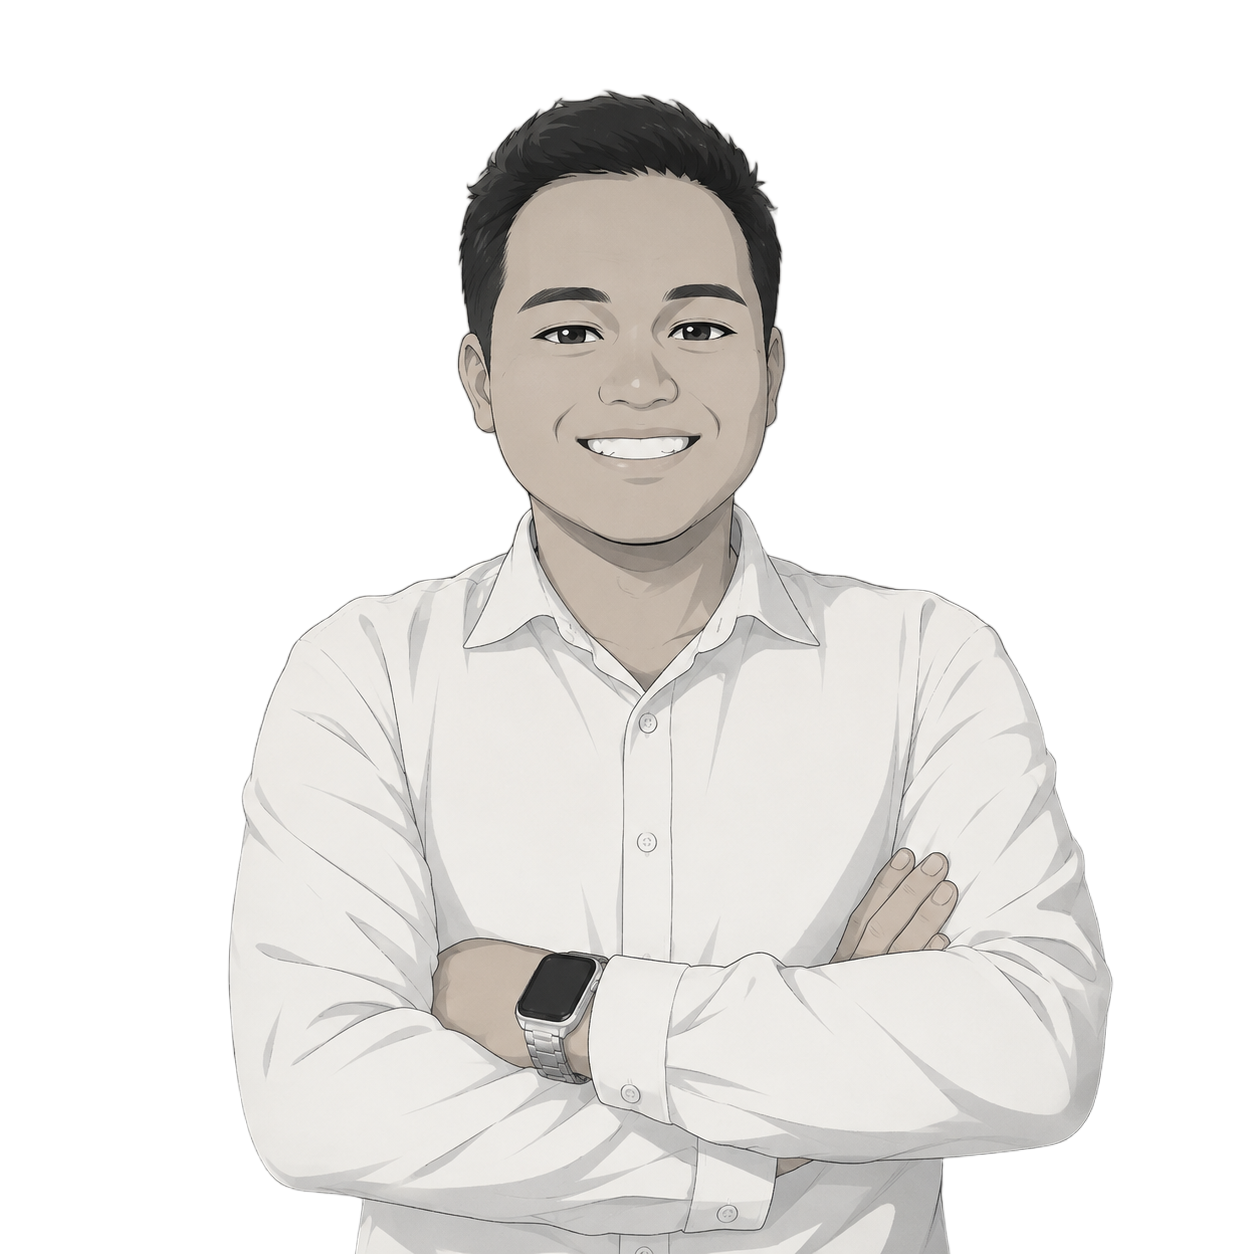
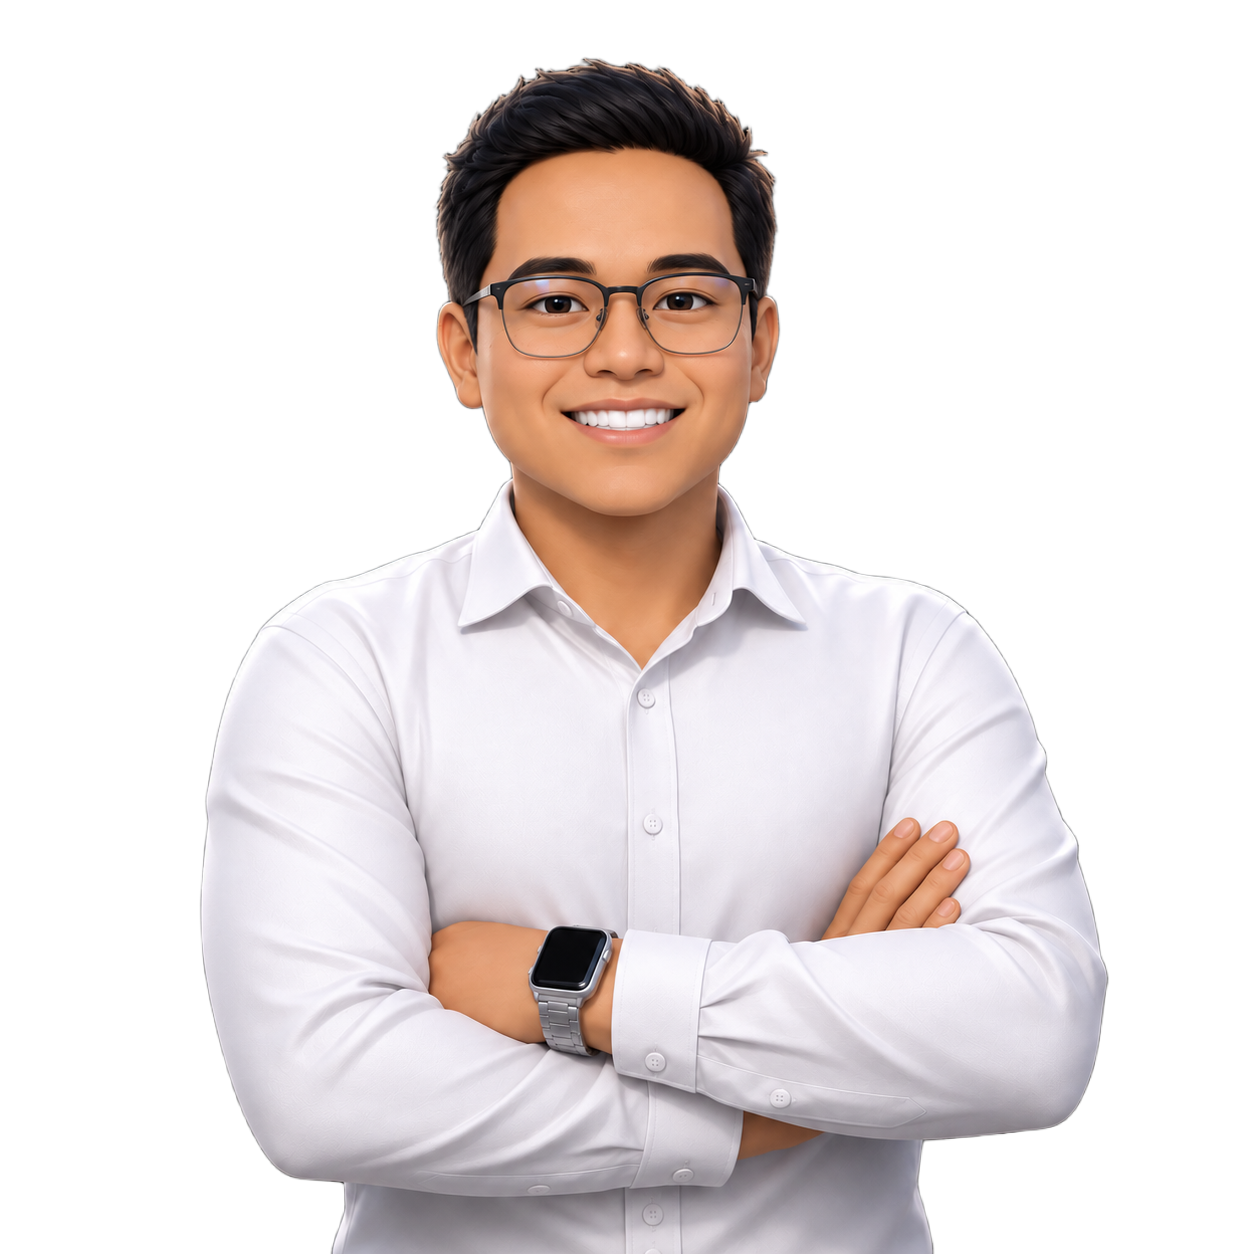
feat: supabase

diff --git a/src/components/Hero/SequenceScroll.tsx b/src/components/Hero/SequenceScroll.tsx
@@ -82,34 +82,61 @@ export default function SequenceScroll() {
           </h1>
         </div>
 
-        {/* Roles Bullet Pills List */}
+        {/* Roles Bullet Pills List
         <div className="hero-fade flex flex-wrap items-center justify-center gap-3 pt-2">
           <span className="px-4 py-1.5 rounded-full border border-[#2b211b]/20 bg-[#ebd0b5]/70 text-xs font-mono font-bold text-[#c85628] tracking-wider uppercase shadow-sm">
-            Back-End Developer
+            Backend Developer
           </span>
           <span className="px-4 py-1.5 rounded-full border border-[#2b211b]/20 bg-[#ebd0b5]/70 text-xs font-mono font-bold text-[#2b211b] tracking-wider uppercase shadow-sm">
-            Full-Stack Developer
+            Fullstack Developer
           </span>
           <span className="px-4 py-1.5 rounded-full border border-[#2b211b]/20 bg-[#ebd0b5]/70 text-xs font-mono font-bold text-[#2b211b] tracking-wider uppercase shadow-sm">
             Software Engineer
           </span>
-        </div>
+        </div> */}
 
         {/* Hero Image Showcase Box */}
         <div
           ref={heroImageRef}
-          className="relative w-full max-w-lg aspect-[4/3] md:aspect-[16/10] mt-4 rounded-3xl border border-[#2b211b]/20 bg-[#ebd0b5]/60 p-4 md:p-6 shadow-2xl backdrop-blur-md overflow-hidden group"
+          className="relative w-full max-w-xl md:max-w-2xl aspect-[4/3] md:aspect-[16/10] my-2 flex items-center justify-center group"
         >
-          <div className="relative w-full h-full rounded-2xl overflow-hidden bg-[#f6d4b1]">
-            <Image
-              src={hero.heroImage || "/projects/ger2.png"}
-              alt="Geraldine Firdaus Hero Showcase"
-              fill
-              className="object-contain filter drop-shadow-[0_10px_30px_rgba(43,33,27,0.15)] group-hover:scale-105 transition-transform duration-700"
-              priority
-              unoptimized
-            />
+          {/* Ambient Warm Halo Lighting */}
+          <div className="absolute top-1/2 left-1/2 -translate-x-1/2 -translate-y-1/2 w-64 h-64 sm:w-80 sm:h-80 md:w-96 md:h-96 bg-[#c85628]/15 rounded-full blur-3xl pointer-events-none -z-10" />
+
+          {/* Soft Grounding Floor Shadow */}
+          <div className="absolute bottom-1 left-1/2 -translate-x-1/2 w-56 sm:w-72 md:w-80 h-5 bg-[#2b211b]/20 rounded-[100%] blur-md pointer-events-none -z-10" />
+
+          {/* Floating Glassmorphism Badge 1 - Left Top */}
+          <div className="absolute top-6 left-0 sm:left-2 md:left-4 px-3.5 py-1.5 rounded-full bg-[#ebd0b5]/90 border border-[#2b211b]/15 shadow-lg backdrop-blur-md hidden sm:flex items-center gap-2 text-[11px] font-mono font-bold text-[#2b211b] transition-transform duration-500 group-hover:-translate-y-1 z-10">
+            <span className="w-2 h-2 rounded-full bg-[#c85628] animate-pulse" />
+            <span>Backend Developer</span>
           </div>
+
+          {/* Floating Glassmorphism Badge 2 - Right Top */}
+          <div className="absolute top-12 right-0 sm:right-2 md:right-4 px-3.5 py-1.5 rounded-full bg-[#ebd0b5]/90 border border-[#2b211b]/15 shadow-lg backdrop-blur-md hidden sm:flex items-center gap-2 text-[11px] font-mono font-bold text-[#2b211b] transition-transform duration-500 group-hover:translate-y-1 z-10">
+            <span className="text-[#c85628]">⚡</span>
+            <span>Fullstack Developer</span>
+          </div>
+
+          {/* Floating Glassmorphism Badge 3 - Left Bottom */}
+          <div className="absolute bottom-10 left-2 sm:left-6 md:left-8 px-3.5 py-1.5 rounded-full bg-[#ebd0b5]/90 border border-[#2b211b]/15 shadow-lg backdrop-blur-md hidden sm:flex items-center gap-2 text-[11px] font-mono font-bold text-[#2b211b] transition-transform duration-500 group-hover:-translate-y-1 z-10">
+            <span className="text-[#c85628]">💻</span>
+            <span>Software Engineer</span>
+          </div>
+
+          {/* Person Avatar with Smooth Bottom Fade Mask */}
+          <Image
+            src={hero.heroImage || "/projects/ger2.png"}
+            alt="Geraldine Firdaus Hero Showcase"
+            fill
+            className="object-contain filter drop-shadow-[0_15px_30px_rgba(43,33,27,0.15)] group-hover:scale-[1.03] transition-transform duration-700"
+            style={{
+              maskImage: "linear-gradient(to bottom, black 82%, transparent 100%)",
+              WebkitMaskImage: "linear-gradient(to bottom, black 82%, transparent 100%)",
+            }}
+            priority
+            unoptimized
+          />
         </div>
 
         {/* CTA Button (ctaText & ctaLink from Admin) */}

diff --git a/src/context/PortfolioContext.tsx b/src/context/PortfolioContext.tsx
@@ -2,6 +2,7 @@
 
 import React, { createContext, useContext, useState, useEffect } from "react";
 import { PROJECTS as INITIAL_PROJECTS, Project } from "@/data/projects";
+import { supabase } from "@/lib/supabase";
 
 export interface HeroData {
   bgText: string;
@@ -196,13 +197,13 @@ export interface PortfolioState {
 
 const DEFAULT_PORTFOLIO_STATE: PortfolioState = {
   hero: {
-    bgText: "DEVELOPER",
+    bgText: "FULLSTACK",
     prefixText: "Hi there, I’m",
     highlightText: "Geraldine",
     heroImage: "/projects/ger2.png",
     ctaText: "Hire Me",
     ctaLink: "/#contact",
-    bottomLeftText: "Specialized in Back-End architecture, RESTful API design, microservices, and database optimization.",
+    bottomLeftText: "Specialized in Back-End architecture, RESTful API design,   and database optimization.",
     bottomRightText: "I build fast, scalable, and resilient back-end systems using PHP, Node.js, Golang, and PostgreSQL.",
   },
   about: {
@@ -398,6 +399,7 @@ interface PortfolioContextType {
   state: PortfolioState;
   updateSection: <K extends keyof PortfolioState>(key: K, data: PortfolioState[K]) => void;
   resetAll: () => void;
+  isLoading: boolean;
 }
 
 const PortfolioContext = createContext<PortfolioContextType | undefined>(undefined);
@@ -409,27 +411,68 @@ export function PortfolioProvider({ children }: { children: React.ReactNode }) {
   const [initialized, setInitialized] = useState(false);
 
   useEffect(() => {
-    try {
-      const saved = localStorage.getItem(LOCAL_STORAGE_KEY);
-      if (saved) {
-        const parsed = JSON.parse(saved);
-        setState((prev) => ({ ...prev, ...parsed }));
+    async function loadPortfolioData() {
+      // 1. Try loading from Supabase first if configured
+      if (supabase) {
+        try {
+          const { data, error } = await supabase
+            .from("portfolio")
+            .select("data")
+            .eq("key", "main")
+            .maybeSingle();
+
+          if (!error && data && data.data) {
+            setState((prev) => ({ ...prev, ...data.data }));
+            try {
+              localStorage.setItem(LOCAL_STORAGE_KEY, JSON.stringify(data.data));
+            } catch {}
+            setInitialized(true);
+            return;
+          }
+        } catch {
+          // Fallback to local storage if network or error
+        }
       }
-    } catch {
-      // Fallback ke default state jika terjadi kesalahan parsing
-    } finally {
-      setInitialized(true);
+
+      // 2. Fallback to LocalStorage if Supabase fails or not configured
+      try {
+        const saved = localStorage.getItem(LOCAL_STORAGE_KEY);
+        if (saved) {
+          const parsed = JSON.parse(saved);
+          setState((prev) => ({ ...prev, ...parsed }));
+        }
+      } catch {
+        // Fallback to DEFAULT_PORTFOLIO_STATE
+      } finally {
+        setInitialized(true);
+      }
     }
+
+    loadPortfolioData();
   }, []);
 
   const updateSection = <K extends keyof PortfolioState>(key: K, data: PortfolioState[K]) => {
     setState((prev) => {
       const updated = { ...prev, [key]: data };
+
       try {
         localStorage.setItem(LOCAL_STORAGE_KEY, JSON.stringify(updated));
       } catch {
         // Handle quota storage
       }
+
+      // Sync to Supabase in background
+      if (supabase) {
+        supabase
+          .from("portfolio")
+          .upsert({ key: "main", data: updated }, { onConflict: "key" })
+          .then(({ error }) => {
+            if (error) {
+              console.error("Supabase sync error:", error.message);
+            }
+          });
+      }
+
       return updated;
     });
   };
@@ -441,18 +484,21 @@ export function PortfolioProvider({ children }: { children: React.ReactNode }) {
     } catch {
       // Handle quota storage
     }
+
+    if (supabase) {
+      supabase
+        .from("portfolio")
+        .upsert({ key: "main", data: DEFAULT_PORTFOLIO_STATE }, { onConflict: "key" })
+        .then(({ error }) => {
+          if (error) {
+            console.error("Supabase reset error:", error.message);
+          }
+        });
+    }
   };
 
-  if (!initialized) {
-    return (
-      <PortfolioContext.Provider value={{ state, updateSection, resetAll }}>
-        {children}
-      </PortfolioContext.Provider>
-    );
-  }
-
   return (
-    <PortfolioContext.Provider value={{ state, updateSection, resetAll }}>
+    <PortfolioContext.Provider value={{ state, updateSection, resetAll, isLoading: !initialized }}>
       {children}
     </PortfolioContext.Provider>
   );

diff --git a/src/app/admin/page.tsx b/src/app/admin/page.tsx
@@ -2,6 +2,8 @@
 
 import { useState, useEffect } from "react";
 import Link from "next/link";
+import { useRouter } from "next/navigation";
+import { supabase } from "@/lib/supabase";
 import {
   LayoutDashboard,
   Sparkles,
@@ -60,6 +62,25 @@ type SectionTab =
 
 export default function AdminDashboardPage() {
   const { state, updateSection } = usePortfolio();
+  const router = useRouter();
+
+  useEffect(() => {
+    async function checkAuth() {
+      if (!supabase) return;
+      const { data } = await supabase.auth.getSession();
+      if (!data.session) {
+        router.push("/login");
+      }
+    }
+    checkAuth();
+  }, [router]);
+
+  const handleLogout = async () => {
+    if (supabase) {
+      await supabase.auth.signOut();
+    }
+    router.push("/login");
+  };
 
   const [activeTab, setActiveTab] = useState<SectionTab>("overview");
   const [sidebarOpen, setSidebarOpen] = useState(false);
@@ -82,6 +103,7 @@ export default function AdminDashboardPage() {
 
   // Keep local editor state in sync when context initializes or changes
   useEffect(() => {
+    // eslint-disable-next-line react-hooks/set-state-in-effect
     setHeroData(state.hero);
     setAboutData(state.about);
     setExperienceData(state.experience);
@@ -207,13 +229,13 @@ export default function AdminDashboardPage() {
             <span>Lihat Website</span>
             <ExternalLink size={14} />
           </Link>
-          <Link
-            href="/login"
-            className="w-full flex items-center justify-center gap-2 px-4 py-2.5 text-xs font-mono text-red-600 hover:bg-red-500/10 rounded-xl font-bold transition-colors"
+          <button
+            onClick={handleLogout}
+            className="w-full flex items-center justify-center gap-2 px-4 py-2.5 text-xs font-mono text-red-600 hover:bg-red-500/10 rounded-xl font-bold transition-colors cursor-pointer"
           >
             <LogOut size={14} />
             <span>Keluar</span>
-          </Link>
+          </button>
         </div>
       </aside>
 

diff --git a/src/app/login/page.tsx b/src/app/login/page.tsx
@@ -3,6 +3,7 @@
 import { useState } from "react";
 import Link from "next/link";
 import { ArrowLeft, Eye, EyeOff } from "lucide-react";
+import { supabase } from "@/lib/supabase";
 
 export default function LoginPage() {
   const [email, setEmail] = useState("");
@@ -23,12 +24,28 @@ export default function LoginPage() {
     setLoading(true);
 
     try {
-      // Logic autentikasi
-      await new Promise((resolve) => setTimeout(resolve, 800));
-      // Berhasil - dapatkan akses ke admin
-      window.location.href = "/admin";
+      if (!supabase) {
+        setError(
+          "Supabase belum dikonfigurasi. Silakan isi NEXT_PUBLIC_SUPABASE_URL dan NEXT_PUBLIC_SUPABASE_ANON_KEY di berkas .env.local terlebih dahulu."
+        );
+        return;
+      }
+
+      const { data, error: authError } = await supabase.auth.signInWithPassword({
+        email,
+        password,
+      });
+
+      if (authError) {
+        setError(authError.message || "Email atau password tidak sesuai.");
+        return;
+      }
+
+      if (data.session) {
+        window.location.href = "/admin";
+      }
     } catch {
-      setError("Email atau password tidak sesuai.");
+      setError("Terjadi kesalahan saat mencoba masuk.");
     } finally {
       setLoading(false);
     }

diff --git a/src/lib/supabase.ts b/src/lib/supabase.ts
@@ -1,0 +1,9 @@
+import { createClient } from "@supabase/supabase-js";
+
+const supabaseUrl = process.env.NEXT_PUBLIC_SUPABASE_URL || "";
+const supabaseAnonKey = process.env.NEXT_PUBLIC_SUPABASE_ANON_KEY || "";
+
+export const supabase =
+  supabaseUrl && supabaseAnonKey
+    ? createClient(supabaseUrl, supabaseAnonKey)
+    : null;
